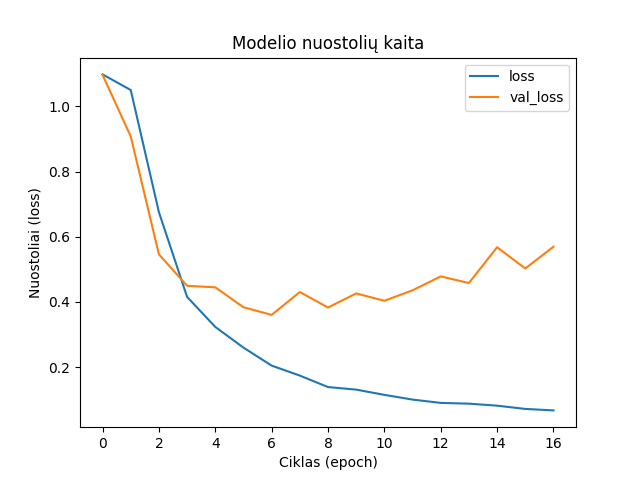
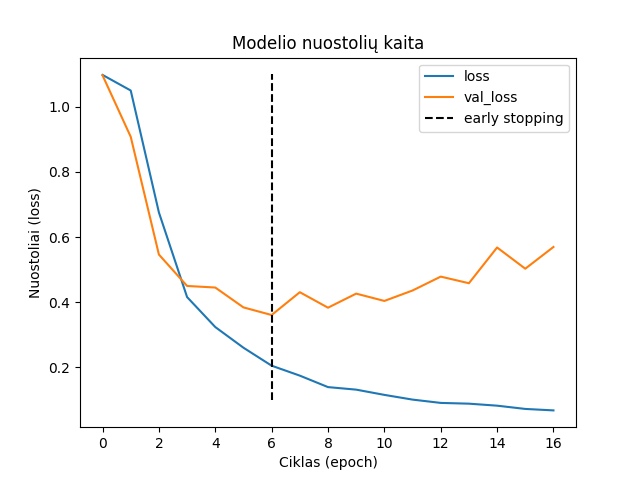
EarlyStopping linija grafike

diff --git a/Emotion_Prediction_from_Text.py b/Emotion_Prediction_from_Text.py
@@ -108,14 +108,17 @@ def train_single_model(padded_seq_train, labels_train, epochs=100, batch_size=20
     return model, log
 
 def grafikai(log):
+    df = pd.DataFrame(log.history)
+    early_stop_point = df['val_loss'].idxmin()
+
     # Tikslumas
     plt.figure()
-    df = pd.DataFrame(log.history)
     df['accuracy'].plot(label='accuracy')
     df['val_accuracy'].plot(label='val_accuracy')
     plt.title('Modelio tikslumo kaita')
     plt.xlabel('Ciklas (epoch)')
     plt.ylabel('Tikslumas (accuracy)')
+    plt.plot([early_stop_point, early_stop_point], [0.3, 1], 'k--', label='early stopping')
     plt.legend()
     plt.savefig('Tikslumas (accuracy).png')
     plt.show()
@@ -127,6 +130,7 @@ def grafikai(log):
     plt.title('Modelio nuostolių kaita')
     plt.xlabel('Ciklas (epoch)')
     plt.ylabel('Nuostoliai (loss)')
+    plt.plot([early_stop_point, early_stop_point], [0.1, 1.1], 'k--', label='early stopping')
     plt.legend()
     plt.savefig('Nuostoliai (loss).png')
     plt.show()
